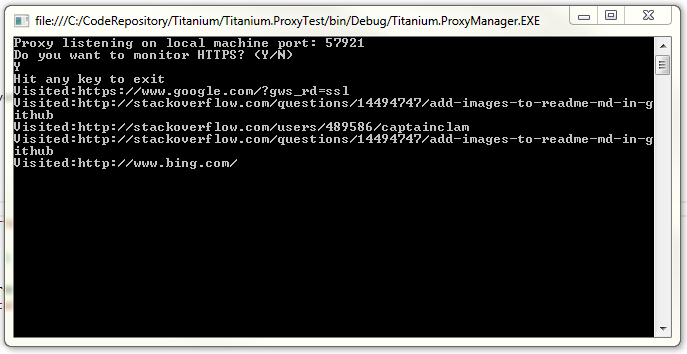
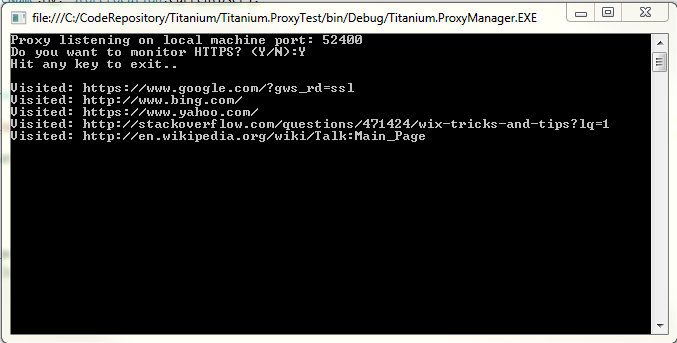
Fix event handler

Changed region(s): [[0.0, 0.0, 1.0, 1.0]]

diff --git a/Titanium.ProxyTest/ProxyTestController.cs b/Titanium.ProxyTest/ProxyTestController.cs
@@ -17,34 +17,37 @@ namespace Titanium.HTTPProxyServer.Test
     {
         private List<string> _URLList = new List<string>();
         private string _lastURL = string.Empty;
-        private ProxyServer _server;
 
         public int ListeningPort { get; set; }
 
         public void StartProxy()
         {
 
-            _server = new ProxyServer();
-            _server.BeforeRequest += OnRequest;
-            _server.BeforeResponse += OnResponse;   
-            _server.Start();
+            if(Visited!=null)
+            {
+                ProxyServer.BeforeRequest += OnRequest;
+                ProxyServer.BeforeResponse += OnResponse;
+            }
+          
+            ProxyServer.Start();
 
-           
-            SystemProxyUtility.EnableProxyHTTP("localhost", _server.ListeningPort);
+
+            SystemProxyUtility.EnableProxyHTTP("localhost", ProxyServer.ListeningPort);
             FireFoxUtility.AddFirefox();
 
-            ListeningPort = _server.ListeningPort;
+            ListeningPort = ProxyServer.ListeningPort;
  
-            Console.WriteLine(String.Format("Proxy listening on local machine port: {0} ", _server.ListeningPort));
+            Console.WriteLine(String.Format("Proxy listening on local machine port: {0} ",  ProxyServer.ListeningPort));
 
         }
         public void Stop()
         {
-
-            _server.BeforeRequest -= OnRequest;
-            _server.BeforeResponse -= OnResponse;
-
-            _server.Stop(); 
+            if (Visited!=null)
+            {
+                ProxyServer.BeforeRequest -= OnRequest;
+                ProxyServer.BeforeResponse -= OnResponse;
+            }
+            ProxyServer.Stop(); 
         }
 
 

diff --git a/Titanium.ProxyTest/Program.cs b/Titanium.ProxyTest/Program.cs
@@ -19,17 +19,19 @@ namespace Titanium.HTTPProxyServer.Test
 
             //Start proxy controller
             var controller = new ProxyTestController();
-            controller.StartProxy();
             controller.Visited += PageVisited;
 
-            Console.WriteLine("Do you want to monitor HTTPS? (Y/N)");
+            controller.StartProxy();
+     
+            Console.Write("Do you want to monitor HTTPS? (Y/N):");
 
             if(Console.ReadLine().Trim().ToLower()=="y" )
             {
                 InstallCertificate(System.IO.Path.GetDirectoryName(System.Reflection.Assembly.GetExecutingAssembly().Location));
                 SystemProxyUtility.EnableProxyHTTPS("localhost", controller.ListeningPort);
             }
-            Console.WriteLine("Hit any key to exit");
+            Console.WriteLine("Hit any key to exit..");
+            Console.WriteLine(); 
             Console.Read();
 
             //Reset System Proxy on exit
@@ -54,7 +56,7 @@ namespace Titanium.HTTPProxyServer.Test
         }
         private static void PageVisited(VisitedEventArgs e)
         {
-            Console.WriteLine(string.Concat("Visited:", e.URL));
+            Console.WriteLine(string.Concat("Visited: ", e.URL));
         }
         static bool ConsoleEventCallback(int eventType)
         {
